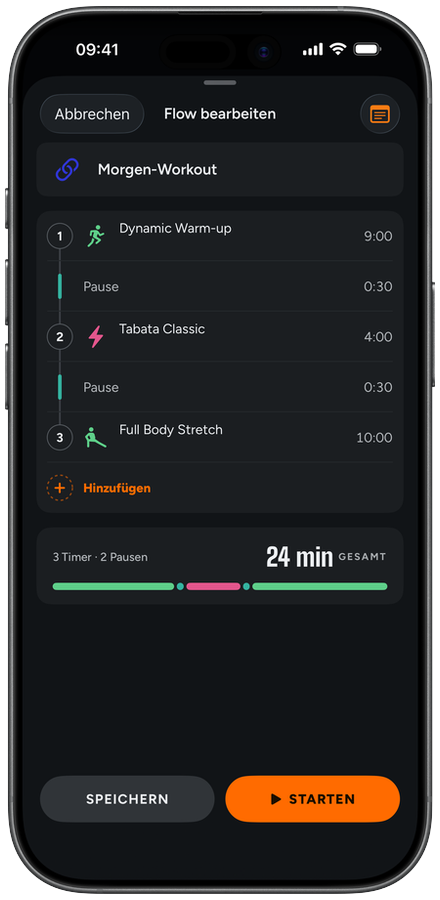
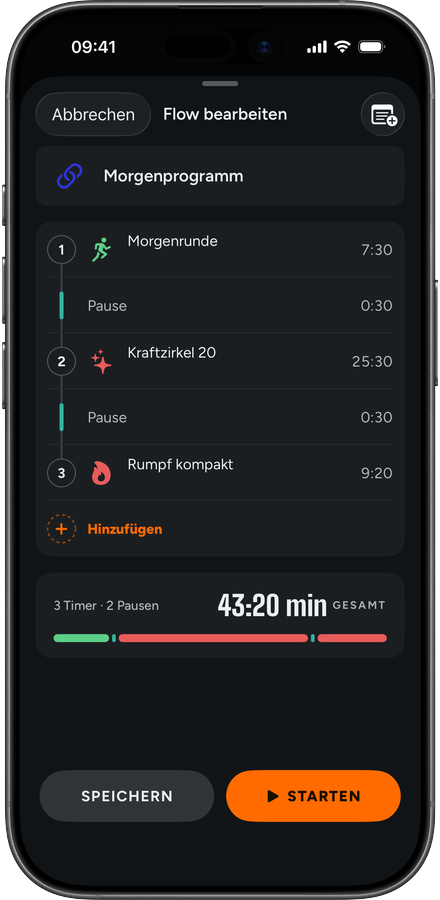
SQNZ pictures without brand names: new iPhone shots, iPad gallery, og-image (EN/DE)
iPhone home, run, editor, flow and stats replaced (same 440x900 frame), timer names
invented instead of 'Tabata Classic'. New iPad gallery between iPhone and Apple Watch,
six shots, three per row on desktop, one per view on phones. og-image EN/DE with the
new SQNZ phone. Alt texts rewritten from the pictures; watch alt no longer says
'the same run' until matching watch shots arrive (WP-N-SQ-2026-10-28-004).

diff --git a/sequenz/de.html b/sequenz/de.html
@@ -125,11 +125,11 @@
 <div class="ad-gal-box">
 <p class="ad-gal-h">iPhone</p>
 <div aria-label="Screenshots iPhone" class="ad-gal" role="group">
-<img alt="Home: zuletzt benutzt „Full Body Stretch“ mit 10 Übungen, Schnellstart für Tabata Classic und Full Body Circuit, Countdowns von 30 Sekunden bis 5 Minuten, darunter die zuletzt genutzten Timer" src="/assets/img/sqnz-103-home-de.png"/>
-<img alt="Laufender Timer Tabata Classic: Push-Ups, noch 0:12, als Nächstes Pause 0:10, gesamt noch 2:52" src="/assets/img/sqnz-103-run-de.png"/>
-<img alt="Timer bearbeiten: Full Body Circuit mit 3:00 Aufwärmen, danach pro Runde Squats, Push-Ups und Lunges je 0:45 mit 0:15 Pause dazwischen" src="/assets/img/sqnz-103-editor-de.png"/>
-<img alt="Flow bearbeiten: Morgen-Workout aus Dynamic Warm-up 9:00, Tabata Classic 4:00 und Full Body Stretch 10:00 mit je 0:30 Pause dazwischen, gesamt 24 Minuten" src="/assets/img/sqnz-103-flow-de.png"/>
-<img alt="Statistiken der Woche: 26 Minuten in 5 Einheiten, 4 Tage Streak" src="/assets/img/sqnz-103-stats-de.png"/>
+<img alt="Home: zuletzt benutzt „Abendlockerung“, 6 Minuten mit 5 Übungen, Schnellstart für Kurzintervalle 20/10 und Kraftzirkel 20, Countdowns von 30 Sekunden bis 5 Minuten, darunter die zuletzt genutzten Timer" src="/assets/img/sqnz-103-home-de.png"/>
+<img alt="Laufender Timer Kraftzirkel 20: Kniebeugen, noch 0:20, als Nächstes Pause 0:15, Runde 1 von 4, gesamt noch 22:05" src="/assets/img/sqnz-103-run-de.png"/>
+<img alt="Timer Kraftzirkel 20 bearbeiten: 3:00 Aufwärmen, dann pro Runde Kniebeugen, Liegestütze und Ausfallschritte je 0:45, vier Runden, mit 0:15 Pause dazwischen" src="/assets/img/sqnz-103-editor-de.png"/>
+<img alt="Flow bearbeiten: Morgenprogramm aus Morgenrunde 7:30, Kraftzirkel 20 25:30 und Rumpf kompakt 9:20 mit je 0:30 Pause dazwischen, gesamt 43:20 Minuten" src="/assets/img/sqnz-103-flow-de.png"/>
+<img alt="Statistik der Woche: 66 Minuten in 4 Einheiten, 88 % mehr als letzte Woche, 4 Tage Streak" src="/assets/img/sqnz-103-stats-de.png"/>
 </div>
 <div class="ad-gal-nav">
 <button aria-label="Vorherige Bilder" class="ad-gal-btn" data-dir="-1" type="button"><svg aria-hidden="true" fill="none" stroke="currentColor" stroke-linecap="round" stroke-linejoin="round" stroke-width="2" viewbox="0 0 24 24"><path d="M15 5l-7 7 7 7"></path></svg></button>
@@ -139,9 +139,26 @@
 </div>
 
 <div class="ad-gal-box">
+<p class="ad-gal-h">iPad</p>
+<div aria-label="Screenshots iPad" class="ad-gal ad-gal--ipad" data-per="1" role="group">
+<img alt="Home auf dem iPad: zuletzt benutzt „Abendlockerung“, Schnellstart, Countdowns und die zuletzt genutzten Timer und Flows in zwei Spalten" src="/assets/img/sqnz-107-ipad-home-de.png"/>
+<img alt="Laufender Timer Kurzintervalle 20/10 auf dem iPad: Burpees, noch 0:05, als Nächstes Pause 0:10, verbleibend 3:45" src="/assets/img/sqnz-107-ipad-run-de.png"/>
+<img alt="Aus Text erstellen auf dem iPad: HIIT Starter, von deiner KI-App geschrieben, 20 Minuten, 3 Übungen, 5 Runden, mit Aufwärmen und Abkühlen, dazu der Hinweis, den Plan vor dem Start zu prüfen" src="/assets/img/sqnz-107-ipad-import-de.png"/>
+<img alt="Timer Kraftzirkel 20 auf dem iPad bearbeiten: fünf Übungen mit Pausen pro Runde, vier Runden, Aufwärmen und Abwärmen, gesamt 25:30 Minuten" src="/assets/img/sqnz-107-ipad-editor-de.png"/>
+<img alt="Flow Morgenprogramm auf dem iPad bearbeiten: Morgenrunde, Kraftzirkel 20 und Rumpf kompakt mit je 0:30 Pause dazwischen, gesamt 43:20 Minuten" src="/assets/img/sqnz-107-ipad-flow-de.png"/>
+<img alt="Statistik auf dem iPad: 66 Minuten in 4 Einheiten diese Woche, 4 Tage Streak, längste Einheit, bester Tag und Minuten je Timer" src="/assets/img/sqnz-107-ipad-stats-de.png"/>
+</div>
+<div class="ad-gal-nav">
+<button aria-label="Vorherige Bilder" class="ad-gal-btn" data-dir="-1" type="button"><svg aria-hidden="true" fill="none" stroke="currentColor" stroke-linecap="round" stroke-linejoin="round" stroke-width="2" viewbox="0 0 24 24"><path d="M15 5l-7 7 7 7"></path></svg></button>
+<span aria-atomic="true" aria-live="polite" class="ad-gal-count">Bild 1 von 6</span>
+<button aria-label="Nächste Bilder" class="ad-gal-btn" data-dir="1" type="button"><svg aria-hidden="true" fill="none" stroke="currentColor" stroke-linecap="round" stroke-linejoin="round" stroke-width="2" viewbox="0 0 24 24"><path d="M9 5l7 7-7 7"></path></svg></button>
+</div>
+</div>
+
+<div class="ad-gal-box">
 <p class="ad-gal-h">Apple Watch · Premium</p>
 <div aria-label="Screenshots Apple Watch" class="ad-gal ad-gal--watch" data-per="1" role="group">
-<img alt="Derselbe Lauf auf der Apple Watch: Push-Ups, noch 0:12, gleich Pause 0:10, gesamt noch 2:52" src="/assets/img/sqnz-103-watch-1-de.png"/>
+<img alt="Ein Lauf auf der Apple Watch: Push-Ups, noch 0:12, gleich Pause 0:10, gesamt noch 2:52" src="/assets/img/sqnz-103-watch-1-de.png"/>
 <img alt="Pause auf der Apple Watch: noch 0:06, gleich High Knees" src="/assets/img/sqnz-103-watch-2-de.png"/>
 <img alt="Angehaltene Pause auf der Apple Watch: noch 0:04, mit Knopf zum Weiterlaufen" src="/assets/img/sqnz-103-watch-3-de.png"/>
 </div>

diff --git a/sequenz/index.html b/sequenz/index.html
@@ -125,11 +125,11 @@
 <div class="ad-gal-box">
 <p class="ad-gal-h">iPhone</p>
 <div aria-label="iPhone screenshots" class="ad-gal" role="group">
-<img alt="Home: last used “Full Body Stretch” with 10 exercises, quick start for Tabata Classic and Full Body Circuit, countdowns from 30 seconds to 5 minutes, recent timers below" src="/assets/img/sqnz-103-home-en.png"/>
-<img alt="Running timer Tabata Classic: push-ups, 0:12 left, rest 0:10 up next, 2:52 remaining in total" src="/assets/img/sqnz-103-run-en.png"/>
-<img alt="Editing the timer Full Body Circuit: 3:00 warm-up, then squats, push-ups and lunges at 0:45 each per round with 0:15 rest in between" src="/assets/img/sqnz-103-editor-en.png"/>
-<img alt="Editing the flow Morning Workout: Dynamic Warm-up 9:00, Tabata Classic 4:00 and Full Body Stretch 10:00 with 0:30 rest between each, 24 minutes in total" src="/assets/img/sqnz-103-flow-en.png"/>
-<img alt="Statistics for the week: 26 minutes in 5 units, a 4-day streak" src="/assets/img/sqnz-103-stats-en.png"/>
+<img alt="Home: last used “Evening Stretch”, 6 minutes with 5 exercises, quick start for Short Intervals 20/10 and Strength Circuit 20, countdowns from 30 seconds to 5 minutes, recent timers below" src="/assets/img/sqnz-103-home-en.png"/>
+<img alt="Running timer Strength Circuit 20: squats, 0:20 left, rest 0:15 up next, round 1 of 4, 22:05 remaining in total" src="/assets/img/sqnz-103-run-en.png"/>
+<img alt="Editing the timer Strength Circuit 20: 3:00 warm-up, then squats, push-ups and lunges at 0:45 each per round, four rounds, with 0:15 rest in between" src="/assets/img/sqnz-103-editor-en.png"/>
+<img alt="Editing the flow Morning Program: Morning Round 7:30, Strength Circuit 20 25:30 and Core Compact 9:20 with 0:30 rest between each, 43:20 minutes in total" src="/assets/img/sqnz-103-flow-en.png"/>
+<img alt="Statistics for the week: 66 minutes in 4 workouts, 88% more than last week, a 4-day streak" src="/assets/img/sqnz-103-stats-en.png"/>
 </div>
 <div class="ad-gal-nav">
 <button aria-label="Previous screenshots" class="ad-gal-btn" data-dir="-1" type="button"><svg aria-hidden="true" fill="none" stroke="currentColor" stroke-linecap="round" stroke-linejoin="round" stroke-width="2" viewbox="0 0 24 24"><path d="M15 5l-7 7 7 7"></path></svg></button>
@@ -139,9 +139,26 @@
 </div>
 
 <div class="ad-gal-box">
+<p class="ad-gal-h">iPad</p>
+<div aria-label="iPad screenshots" class="ad-gal ad-gal--ipad" data-per="1" role="group">
+<img alt="Home on iPad: last used “Evening Stretch”, quick start, countdowns and recent timers and flows in two columns" src="/assets/img/sqnz-107-ipad-home-en.png"/>
+<img alt="Running timer Short Intervals 20/10 on iPad: burpees, 0:04 left, rest 0:10 up next, 3:44 remaining" src="/assets/img/sqnz-107-ipad-run-en.png"/>
+<img alt="Create from text on iPad: HIIT Starter written by your AI app, 20 minutes, 3 exercises, 5 rounds, with warm-up and cool-down, and a note to check the plan before you start" src="/assets/img/sqnz-107-ipad-import-en.png"/>
+<img alt="Editing the timer Strength Circuit 20 on iPad: five exercises with rests per round, four rounds, warm-up and cool-down, 25:30 minutes in total" src="/assets/img/sqnz-107-ipad-editor-en.png"/>
+<img alt="Editing the flow Morning Program on iPad: Morning Round, Strength Circuit 20 and Core Compact with 0:30 rest between each, 43:20 minutes in total" src="/assets/img/sqnz-107-ipad-flow-en.png"/>
+<img alt="Statistics on iPad: 66 minutes in 4 workouts this week, a 4-day streak, longest workout, best day and minutes per timer" src="/assets/img/sqnz-107-ipad-stats-en.png"/>
+</div>
+<div class="ad-gal-nav">
+<button aria-label="Previous screenshots" class="ad-gal-btn" data-dir="-1" type="button"><svg aria-hidden="true" fill="none" stroke="currentColor" stroke-linecap="round" stroke-linejoin="round" stroke-width="2" viewbox="0 0 24 24"><path d="M15 5l-7 7 7 7"></path></svg></button>
+<span aria-atomic="true" aria-live="polite" class="ad-gal-count">Screenshot 1 of 6</span>
+<button aria-label="Next screenshots" class="ad-gal-btn" data-dir="1" type="button"><svg aria-hidden="true" fill="none" stroke="currentColor" stroke-linecap="round" stroke-linejoin="round" stroke-width="2" viewbox="0 0 24 24"><path d="M9 5l7 7-7 7"></path></svg></button>
+</div>
+</div>
+
+<div class="ad-gal-box">
 <p class="ad-gal-h">Apple Watch · Premium</p>
 <div aria-label="Apple Watch screenshots" class="ad-gal ad-gal--watch" data-per="1" role="group">
-<img alt="The same run on Apple Watch: push-ups, 0:12 left, rest 0:10 up next, 2:52 remaining" src="/assets/img/sqnz-103-watch-1-en.png"/>
+<img alt="A run on Apple Watch: push-ups, 0:12 left, rest 0:10 up next, 2:52 remaining" src="/assets/img/sqnz-103-watch-1-en.png"/>
 <img alt="Rest on Apple Watch: 0:06 left, high knees up next" src="/assets/img/sqnz-103-watch-2-en.png"/>
 <img alt="Paused rest on Apple Watch: 0:04 left, with a button to resume" src="/assets/img/sqnz-103-watch-3-en.png"/>
 </div>

diff --git a/assets/casy.css b/assets/casy.css
@@ -632,6 +632,13 @@
     .ad-gal.ad-gal--watch{grid-template-columns:none;grid-auto-columns:100%;justify-content:initial}
     .ad-gal--watch img{width:min(100%,240px);justify-self:center;scroll-snap-align:center;scroll-snap-stop:always}
   }
+  /* iPad (SQNZ): drei pro Reihe am Desktop, am Handy eins pro Ansicht wie die Watch,
+     zwei nebeneinander waeren unter 200 px breit. */
+  .ad-gal--ipad{grid-template-columns:repeat(3,minmax(0,1fr))}
+  @media (max-width:560px){
+    .ad-gal.ad-gal--ipad{grid-template-columns:none;grid-auto-columns:100%}
+    .ad-gal--ipad img{scroll-snap-align:center;scroll-snap-stop:always}
+  }
   .ad-doc-body .note{font-size:15px;line-height:1.6;background:var(--bg-soft);border:1px solid var(--line);
     border-radius:var(--r-sm);padding:16px 20px;margin:16px 0 8px}
 
